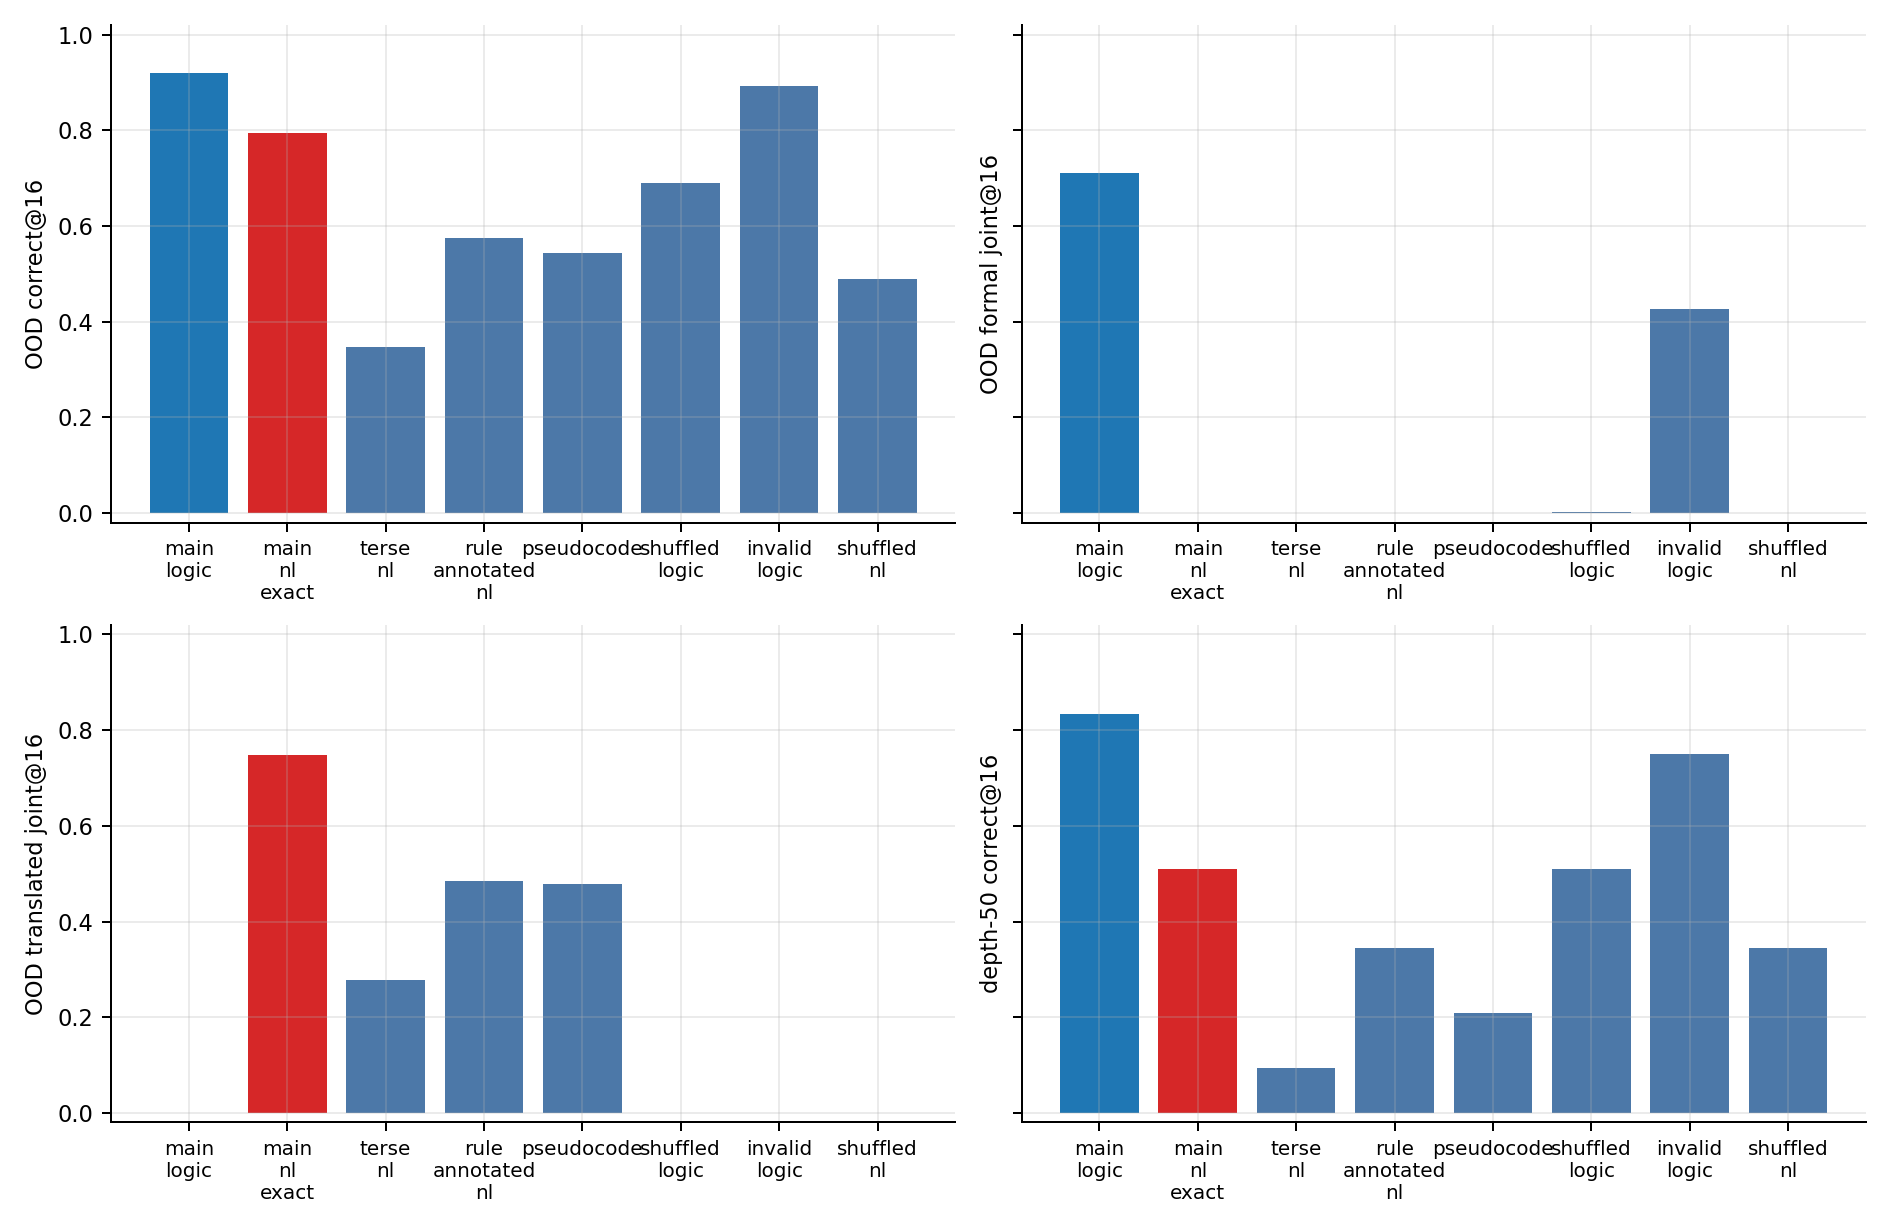
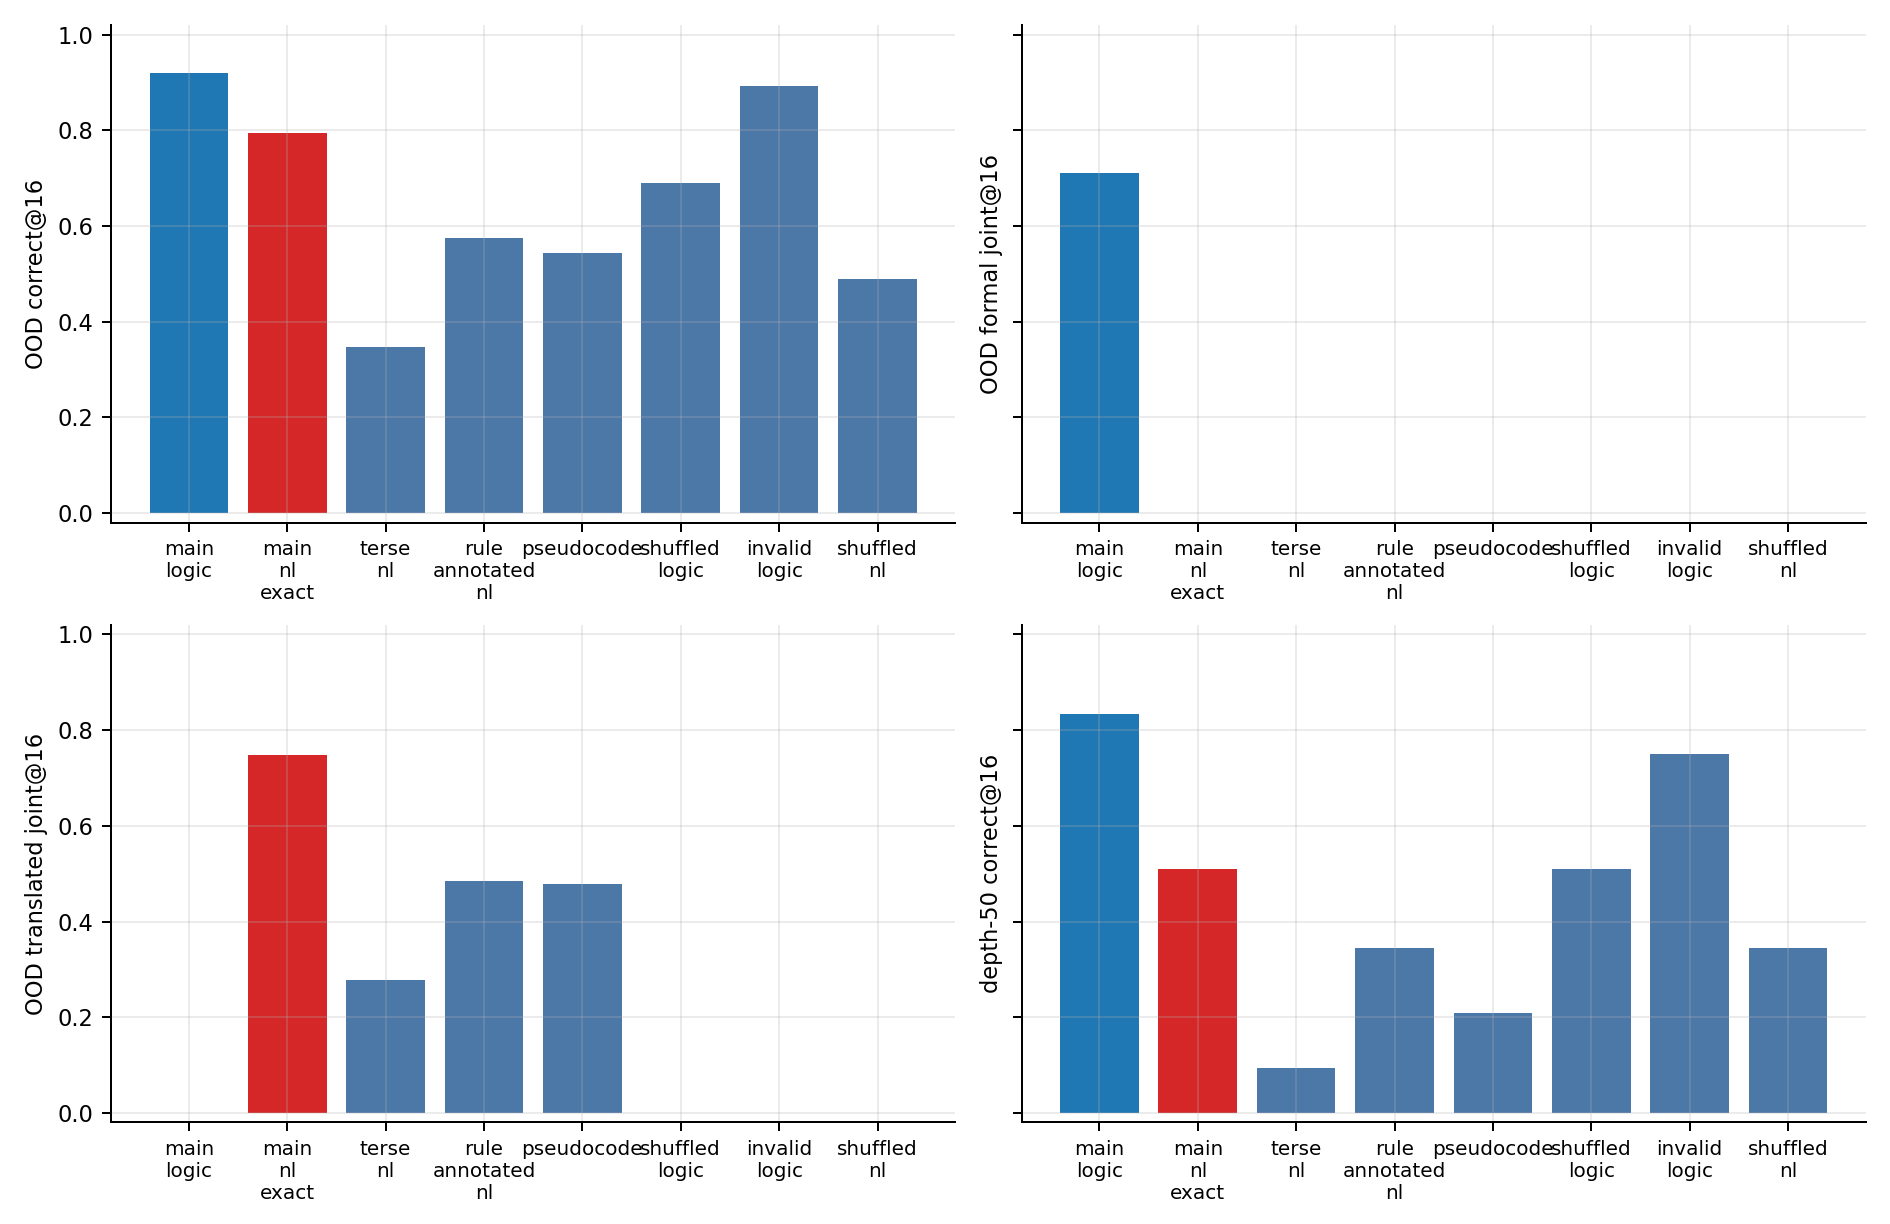
Refresh trace-control metrics

Changed region(s): [[0.8741, 0.2484, 0.9365, 0.4346]]

diff --git a/main.tex b/main.tex
@@ -845,10 +845,10 @@ trace control & n & OOD c@16 & OOD formal joint & OOD translated joint & d50 c@1
 \midrule
 main\_logic & 3 & 0.921 & 0.710 &  & 0.833 & 0.417 &  \\
 main\_nl\_exact & 3 & 0.794 &  & 0.748 & 0.510 &  & 0.427 \\
-invalid\_logic & 3 & 0.892 & 0.427 & 0.000 & 0.750 & 0.146 & 0.000 \\
+invalid\_logic & 3 & 0.892 & 0.000 & 0.000 & 0.750 & 0.000 & 0.000 \\
 pseudocode & 3 & 0.544 & 0.000 & 0.479 & 0.208 & 0.000 & 0.104 \\
 rule\_annotated\_nl & 3 & 0.575 & 0.000 & 0.485 & 0.344 & 0.000 & 0.146 \\
-shuffled\_logic & 3 & 0.690 & 0.002 & 0.000 & 0.510 & 0.000 & 0.000 \\
+shuffled\_logic & 3 & 0.690 & 0.000 & 0.000 & 0.510 & 0.000 & 0.000 \\
 shuffled\_nl & 3 & 0.490 & 0.000 & 0.000 & 0.344 & 0.000 & 0.000 \\
 terse\_nl & 3 & 0.348 & 0.000 & 0.277 & 0.094 & 0.000 & 0.010 \\
 \bottomrule